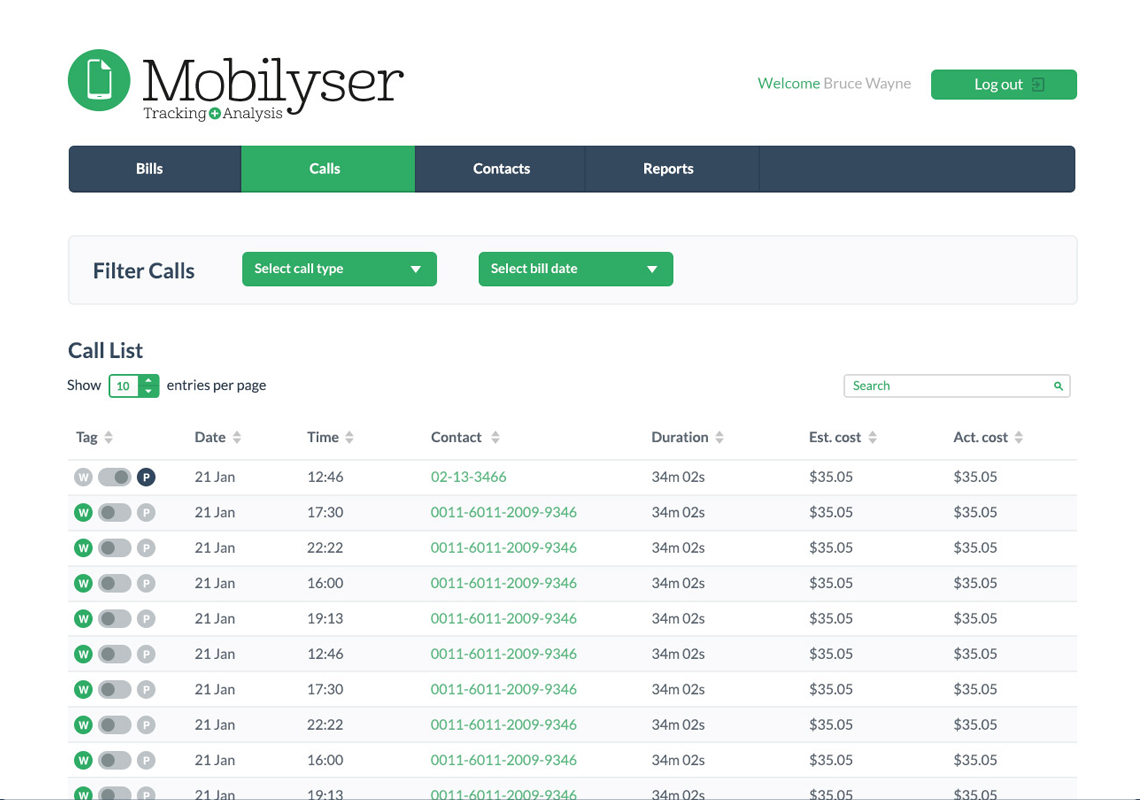
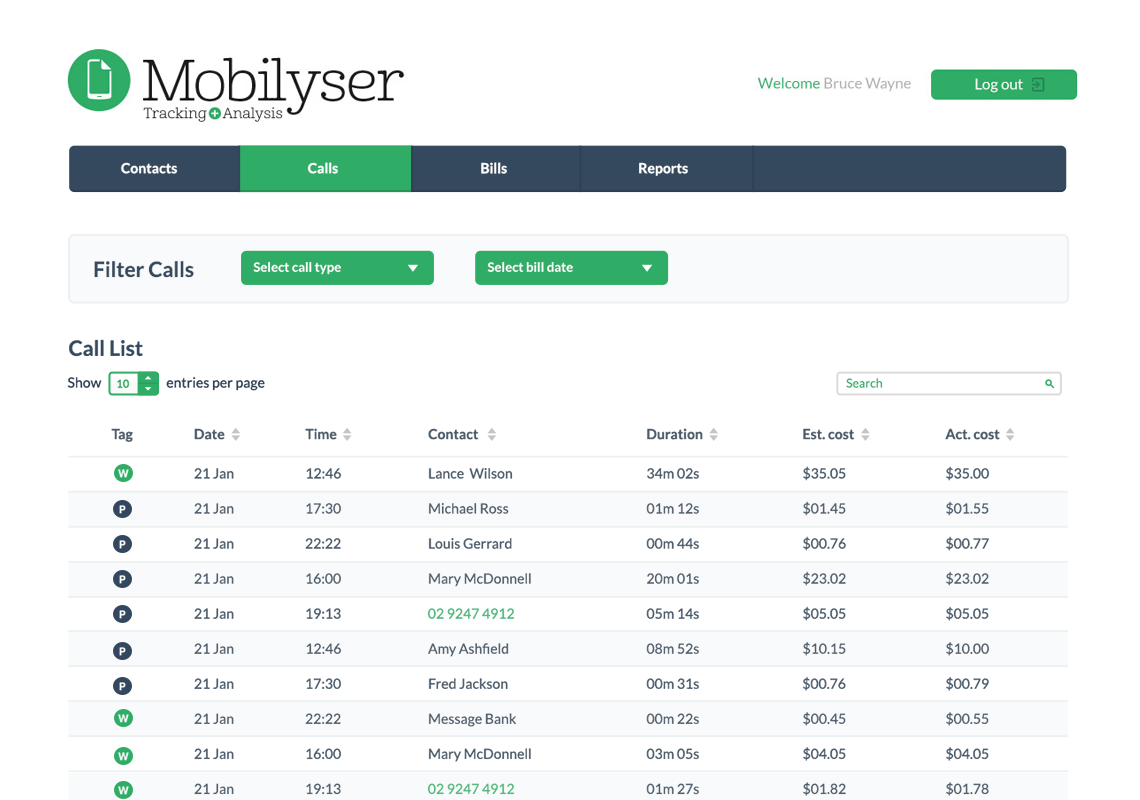
carousel image update
carousel image update

diff --git a/portal.php b/portal.php
@@ -44,7 +44,7 @@ $connect = $db->connect();
 			<div class="item active">
 			<div class="itemText">
 				<h1>Bills</h1>
-				<p>Mobilyser allows you to create bill cycles and upload bills from your Telco to provide actual costs for each call. Bill cycles can span any time period, providing greater flexibility in data reporting. Mobilyser accepts Telco bills in either PDF or .CSV format. </p>
+				<p>Mobilyser allows you to create flexible report cycles, based on data from your regular telco bill. You can also upload actual billing data from your Telco to provide the actual costs for voice calls. Report cycles are designed to be aligned with your telco billing cycle, but can span any time period, providing greater flexibility in data reporting. Mobilyser accepts Telco bills in either PDF or .CSV format. </p>
 			</div>
 			<img src="images/carousel/image-slide-bill.png" border="0" alt="">
 			</div>
@@ -52,7 +52,8 @@ $connect = $db->connect();
 			<div class="item">
 			<div class="itemText">
 				<h1>Calls</h1>
-				<p>The calls section of the Mobilyser portal provides a complete list of voice calls, along with the capability to 'tag' each call. An estimated cost is calculated for all numbers dialled within Australia. Actual costs for each call are obtained by uploading your Telco bill, either in PDF or .CSV format.  You can sort, filter, search and export your calls to an Excel file for further analysis. </p>
+				<p>The calls section of the Mobilyser portal provides a complete list of voice calls and allows the user to allocate a tag to each number under work <img src="images/work.png" border="0" /> or personal <img src="images/personal.png" border="0" />. Within your profile you can choose to default to <img src="images/work.png" border="0" /> (all work numbers) and only change those that are personal <img src="images/personal.png" border="0" /> or vice versa, to save time tagging each number.
+An estimated cost is calculated for all numbers dialled within Australia. Actual costs for each call are obtained by uploading your Telco bill, either in PDF or .CSV format.  You can sort, filter, search and export your calls to an Excel file for further analysis. </p>
 			</div>
 			<img src="images/carousel/image-slide-call-1.png" border="0" alt="">
 			</div>
@@ -68,8 +69,7 @@ $connect = $db->connect();
 			<div class="item">
 			<div class="itemText">
 				<h1>Contacts</h1>
-				<p>Mobilyser synchronises the contact list from your phone, allowing you to review the default 'tag' assigned to each of your contacts and update the 'tag' where required. Mobilyser assigns a default 'tag' to each of your contacts, based on your settings, when your contact directory is first synchronised via the Mobilyser app. Numbers dialled outside your contact directory are also stored by 'Mobilyser', along with the associated 'tag', ensuring that if you dial this number again, you will not be prompted to review the assigned 'tag'. 
-</p>
+				<p>Mobilyser synchronises the contact list from your Android phone, allowing you to review and update the default tag assigned to each of your contacts. When Mobilyser first synchronises with your contact directory a default tag of either <img src="images/personal.png" border="0" /> indicating a personal contact, or <img src="images/work.png" border="0" /> to indicate a work contact is assigned to the each of your contacts. Numbers dialled outside your contact directory are also stored by Mobilyser, along with the associated default tag.</p>
 			</div>
 			<img src="images/carousel/image-slide-contacts.png" border="0" alt="">
 			</div>
@@ -77,7 +77,8 @@ $connect = $db->connect();
 			<div class="item">
 			<div class="itemText">
 				<h1>Reports</h1>
-				<p>The reports section of the Mobilyser portal provides a flexible solution for aggregating data about your device usage in order to generate a claim amount for either a tax return or an expense claim. Reports are organised by 'bill cycle'. Bill cycles are created and managed within the 'Bills' tab of the Mobilyser portal. There are multiple methods for calculating the cost of your mobile device usage. Mobilyser supports calculations based on duration, count and actual cost of voice calls. You can easily switch between calculation methods within the reports screen, maximising your potential claim amount. You can also account for SMS and Data separately, allowing you to assign a higher percentage of work usage to these items, over and above the percentage of work calls calculated by Mobilyser. </p>
+				<p>The reports section of the Mobilyser portal provides a flexible solution for aggregating data about your device usage in order to generate a claim amount for either a tax return or an expense claim. Reports are organised by 'bill cycle'. Bill cycles are created and managed within the 'Bills' tab of the Mobilyser portal. There are multiple methods for calculating the cost of your mobile device usage. 
+Mobilyser supports calculations based on call duration, call numbers and the actual cost of voice calls as per the Australian Tax Office (ATO) guidelines. You can easily switch between calculation methods within the reports screen, maximising your potential claim amount. You can also account for SMS and Data separately, allowing you to assign a higher percentage of work usage to these items, over and above the percentage of work calls calculated by Mobilyser.</p>
 			</div>
 			<img src="images/carousel/image-slide-reports.png" border="0" alt="">
 			</div>
